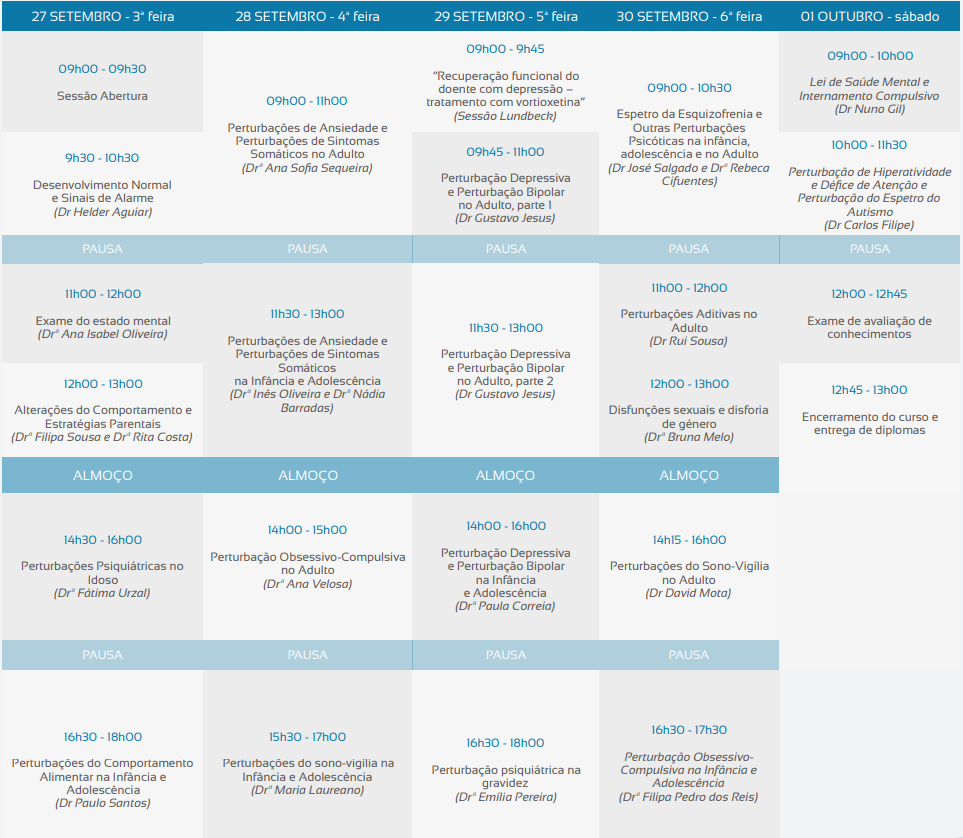
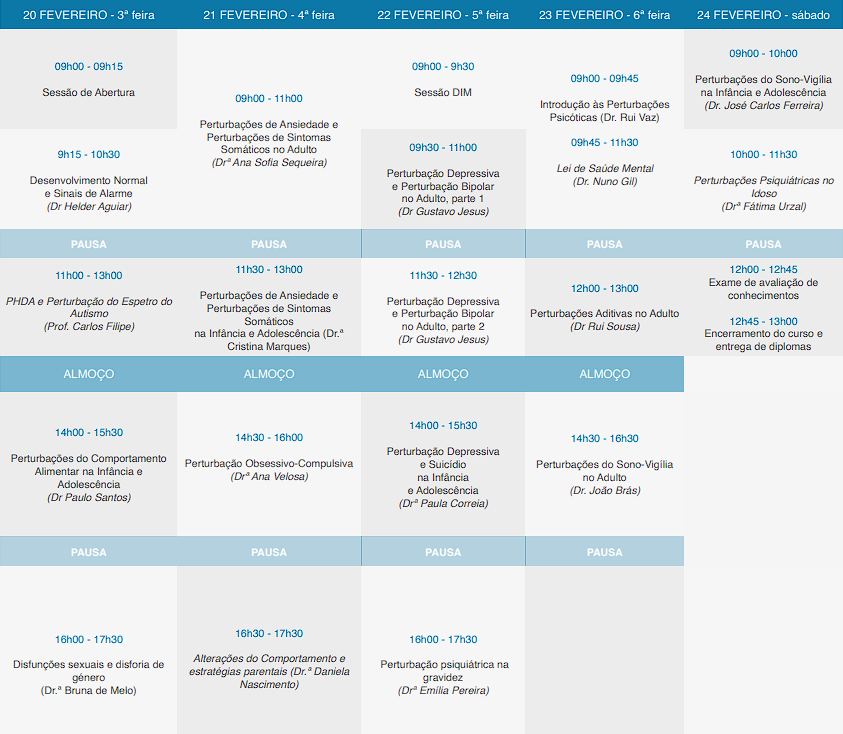
3a edição versão inicial

diff --git a/index.html b/index.html
@@ -59,9 +59,10 @@
         <li class="nav-item">
           <a class="nav-link js-scroll-trigger" href="#contacts">CONTACTOS</a>
         </li>
-        <li class="nav-item">
+        <!--<li class="nav-item">
           <a class="nav-link js-scroll-trigger" href="#patrons">APOIOS</a>
         </li>
+        -->
       </ul>
     </div>
   </nav>
@@ -72,7 +73,7 @@
         <h2 class="mb-0"> <img src="./img/favicon.png" style="width:15%; height:auto;" alt="Logo 0 aos 100"/>Saúde Mental
           <span class="text-primary">Dos 0 Aos 100</span>
         </h2>
-        <div class="subheading mb-5">Curso de Atualização em Psiquiatria para Medicina Geral e Familiar - 2ª edição<br>27 de Setembro a 1 de Outubro de 2022<br>Hotel Durão, Viseu
+        <div class="subheading mb-5">Curso de Atualização em Psiquiatria para Medicina Geral e Familiar - 3ª edição<br>20 de Fevereiro a 24 de Fevereiro de 2024<br>Templo da Poesia, Oeiras
         </div>
         <h3 class="mb-3">Contextualização</h3>
 
@@ -125,7 +126,7 @@
           <div class="resume-content">
             <h3 class="mb-0">Inês Barroca</h3>
             <h5 class="mb-0"><font color="grey">Centro Hospitalar de Lisboa Ocidental</font></h5>
-            <p>Médica Interna de Psiquiatria da Infância e Adolescência</p>
+            <p>Médica Especialista em Psiquiatria da Infância e Adolescência</p>
           </div>
         </div>
 
@@ -149,7 +150,7 @@
           <div class="resume-content">
             <h3 class="mb-0">Lúcia Costa</h3>
             <h5 class="mb-0"><font color="grey">Centro Hospitalar Tondela-Viseu</font></h5>
-            <p>Médica Interna de Psiquiatria</p>
+            <p>Médica Especialista em Psiquiatria</p>
           </div>
         </div>
       </div>
@@ -162,7 +163,7 @@
       <div class="w-100">
         <h2 class="mb-5">Programa</h2>
         <img src="./img/programa.png" alt="Imagem do Programa"/>
-        <br><span><a href="https://drive.google.com/u/2/uc?id=1dFzNGfs2qvKaDyjOpaCfqgqypuWxjOoQ&export=download">Download do Programa em formato PDF</a></span>
+        <br><span><a href="https://drive.google.com/u/2/uc?id=1BGV2R2PStxyk4MePd4R9iv1zQbn5lpVO&export=download">Download do Programa em formato PDF</a></span>
         
         <div>
           <br><h3>Formadores</h3>
@@ -204,12 +205,14 @@
           <li><strong>Público-Alvo:</strong> Médicos Internos e Especialistas em Medicina Geral e Familiar</li>
           <!--<li><strong>Preço:</strong> 50€ (inclui material de apoio e certificados)</li>-->
         </ul>
-        Inscrições abertas!
+        Brevemente serão disponibilizadas as datas e o preço da inscrição, que incluirá material de apoio e coffee breaks.
+        <!--Inscrições abertas!
         <br>Regista-te através <a href="https://docs.google.com/forms/d/e/1FAIpQLSefpd9XRJVWQhZtxy4WYb0k4flwrbfXLUOxaqiRHQyznZiOYQ/viewform?usp=sf_link" rel="nofollow" target="_blank">de este formulário.</a>
+        -->
         <br>
         <br>
-        <span>A inscrição terá o valor de 150€ e inclui material de apoio ao curso, coffee breaks e almoço (exceto no último dia).</span>
-        <br>Só haverão 33 vagas!
+        <!--<span>A inscrição terá o valor de 150€ e inclui material de apoio ao curso, coffee breaks e almoço (exceto no último dia).</span>-->
+        <br>Só haverão 35 vagas!
         <br>
         <br>
         <br><i>Sabias que esta edição do curso será ainda mais especial porque tem um cariz solidário?</i>
@@ -261,14 +264,14 @@
         <br>
         <br>
         <br>
-        <h3>Apoios</h3>
+        <!--<h3>Apoios</h3>
         <div>
           <img src="./img/apoios/angelini.png" alt="Logo Angelini"/>
           <img src="./img/apoios/bial.png" alt="Logo Bial"/>
           <img src="./img/apoios/Vidjen-Pharma.jpg" alt="Logo Vidjen-Pharma"/>
           <img src="./img/apoios/saude_portugues.png" alt="Logo Saúde em Português"/>
           <img src="./img/apoios/inspsic.png" alt="Logo inspsic"/>
-        </div>
+        </div>-->
       </div>
     </section>
 
